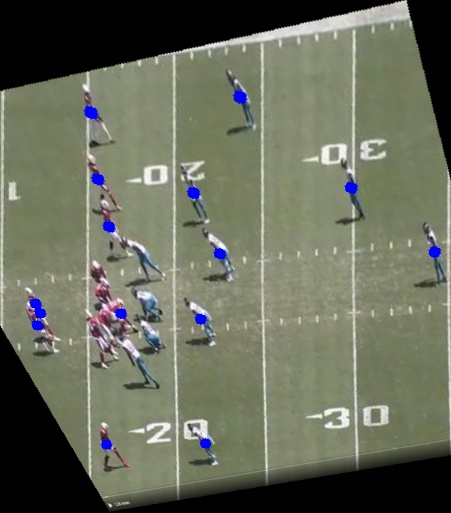
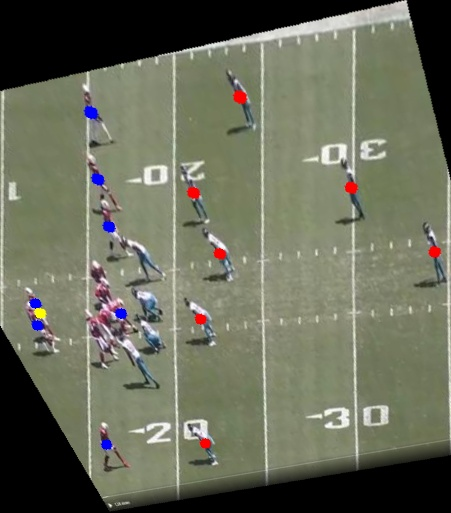
bug fix: team and additional bounding box issue fixed

diff --git a/perspective_transformation/transfer_points.py b/perspective_transformation/transfer_points.py
@@ -223,7 +223,24 @@ class TransferPoints:
 
         return img
 
-    def transfer_points(self, input_img_path, bbox_file):
+    def plot_points_colored(self, input_img, points):
+        img = input_img.copy()
+        for point in points['predictions']:
+            if point['class'] == 'QB':
+                point_color = (0, 255, 255)
+            elif point['team'] == 0:
+                point_color = (255, 0, 0)
+            elif point['team'] == 1:
+                point_color = (0, 0, 255)
+
+            cv2.circle(img, (int(point['x']), int(point['y'])), 5, point_color,
+                       -1)
+            # cv2.imshow("img_circle", img)
+            # cv2.waitKey(0)
+
+        return img
+
+    def transfer_points(self, input_img_path, bbox_file, output_path):
 
         input_image = cv2.imread(input_img_path, cv2.IMREAD_UNCHANGED)
         input_image_height, input_image_width = \
@@ -248,15 +265,18 @@ class TransferPoints:
                                                          width_ratio,
                                                          self.template_vertical_gap * 2)
 
-        birds_eye_img = self.plot_points(self.template_image, transfer_coords)
-        cv2.imwrite("output_images/birds_eye_img.png", birds_eye_img)
+        # birds_eye_img = self.plot_points(self.template_image, transfer_coords)
+        birds_eye_img = self.plot_points_colored(self.template_image,
+                                                 transfer_coords)
+        cv2.imwrite(output_path, birds_eye_img)
         print(input_image_vertical_gap)
 
 
 if __name__ == "__main__":
     transfer_points = TransferPoints('input_images/birds_eye_view_field.png')
-    transfer_points.transfer_points('output_images/warped_image.png',
-                                    'perspective_transformation/'
-                                    'warped_output_points.json')
+    transfer_points.transfer_points('warped_images/img6.jpg',
+                                    'bounding_box_with_team_warped/'
+                                    'img6_bbox.json',
+                                    'birds_eye_view_grid_images/img6.jpg')
 
     # transfer_points.fetch_image_dim()

diff --git a/perspective_transformation/rotate_line.py b/perspective_transformation/rotate_line.py
@@ -205,8 +205,8 @@ def plot_image_with_lines(img, lines):
 
 
 # image = cv2.imread("img1.jpg", cv2.IMREAD_UNCHANGED)
-img_name = 'img_l1.jpg'
-bbox_file_name = 'img_l1_bbox.json'
+img_name = 'img6.jpg'
+bbox_file_name = 'img6_bbox.json'
 
 image = cv2.imread("../input_images/" + img_name, cv2.IMREAD_UNCHANGED)
 bbox_file = '../bounding_box_with_team/' + bbox_file_name
